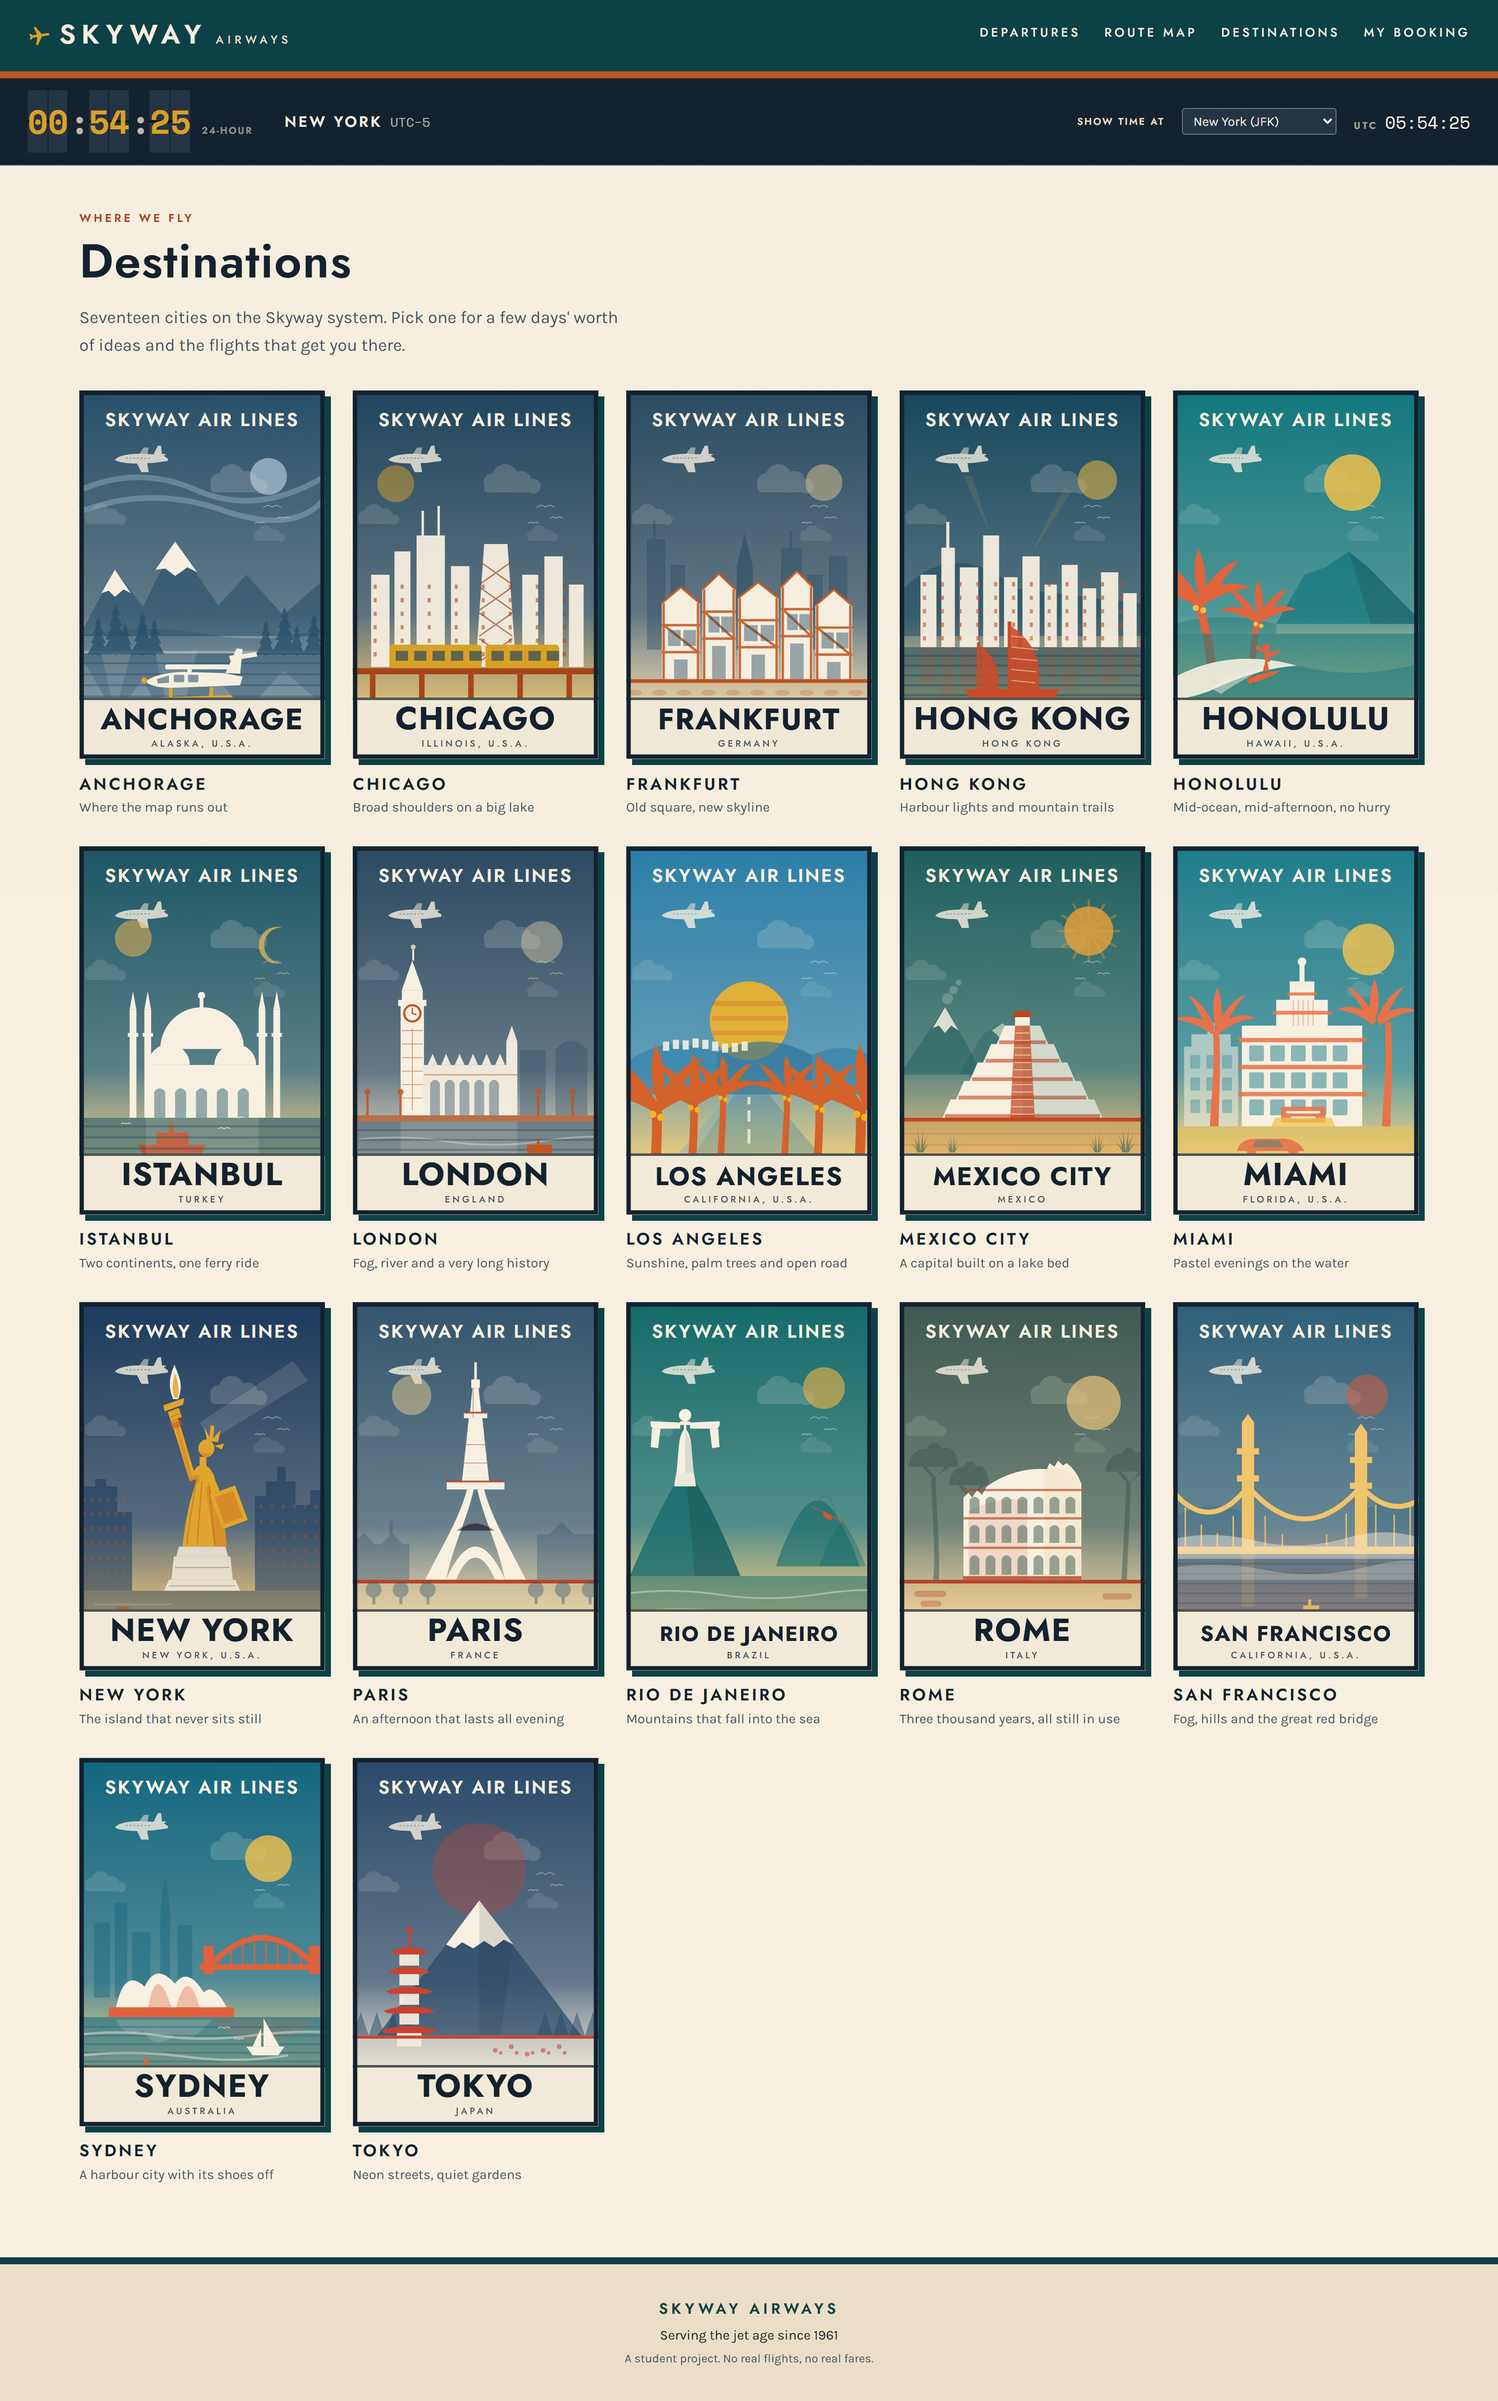
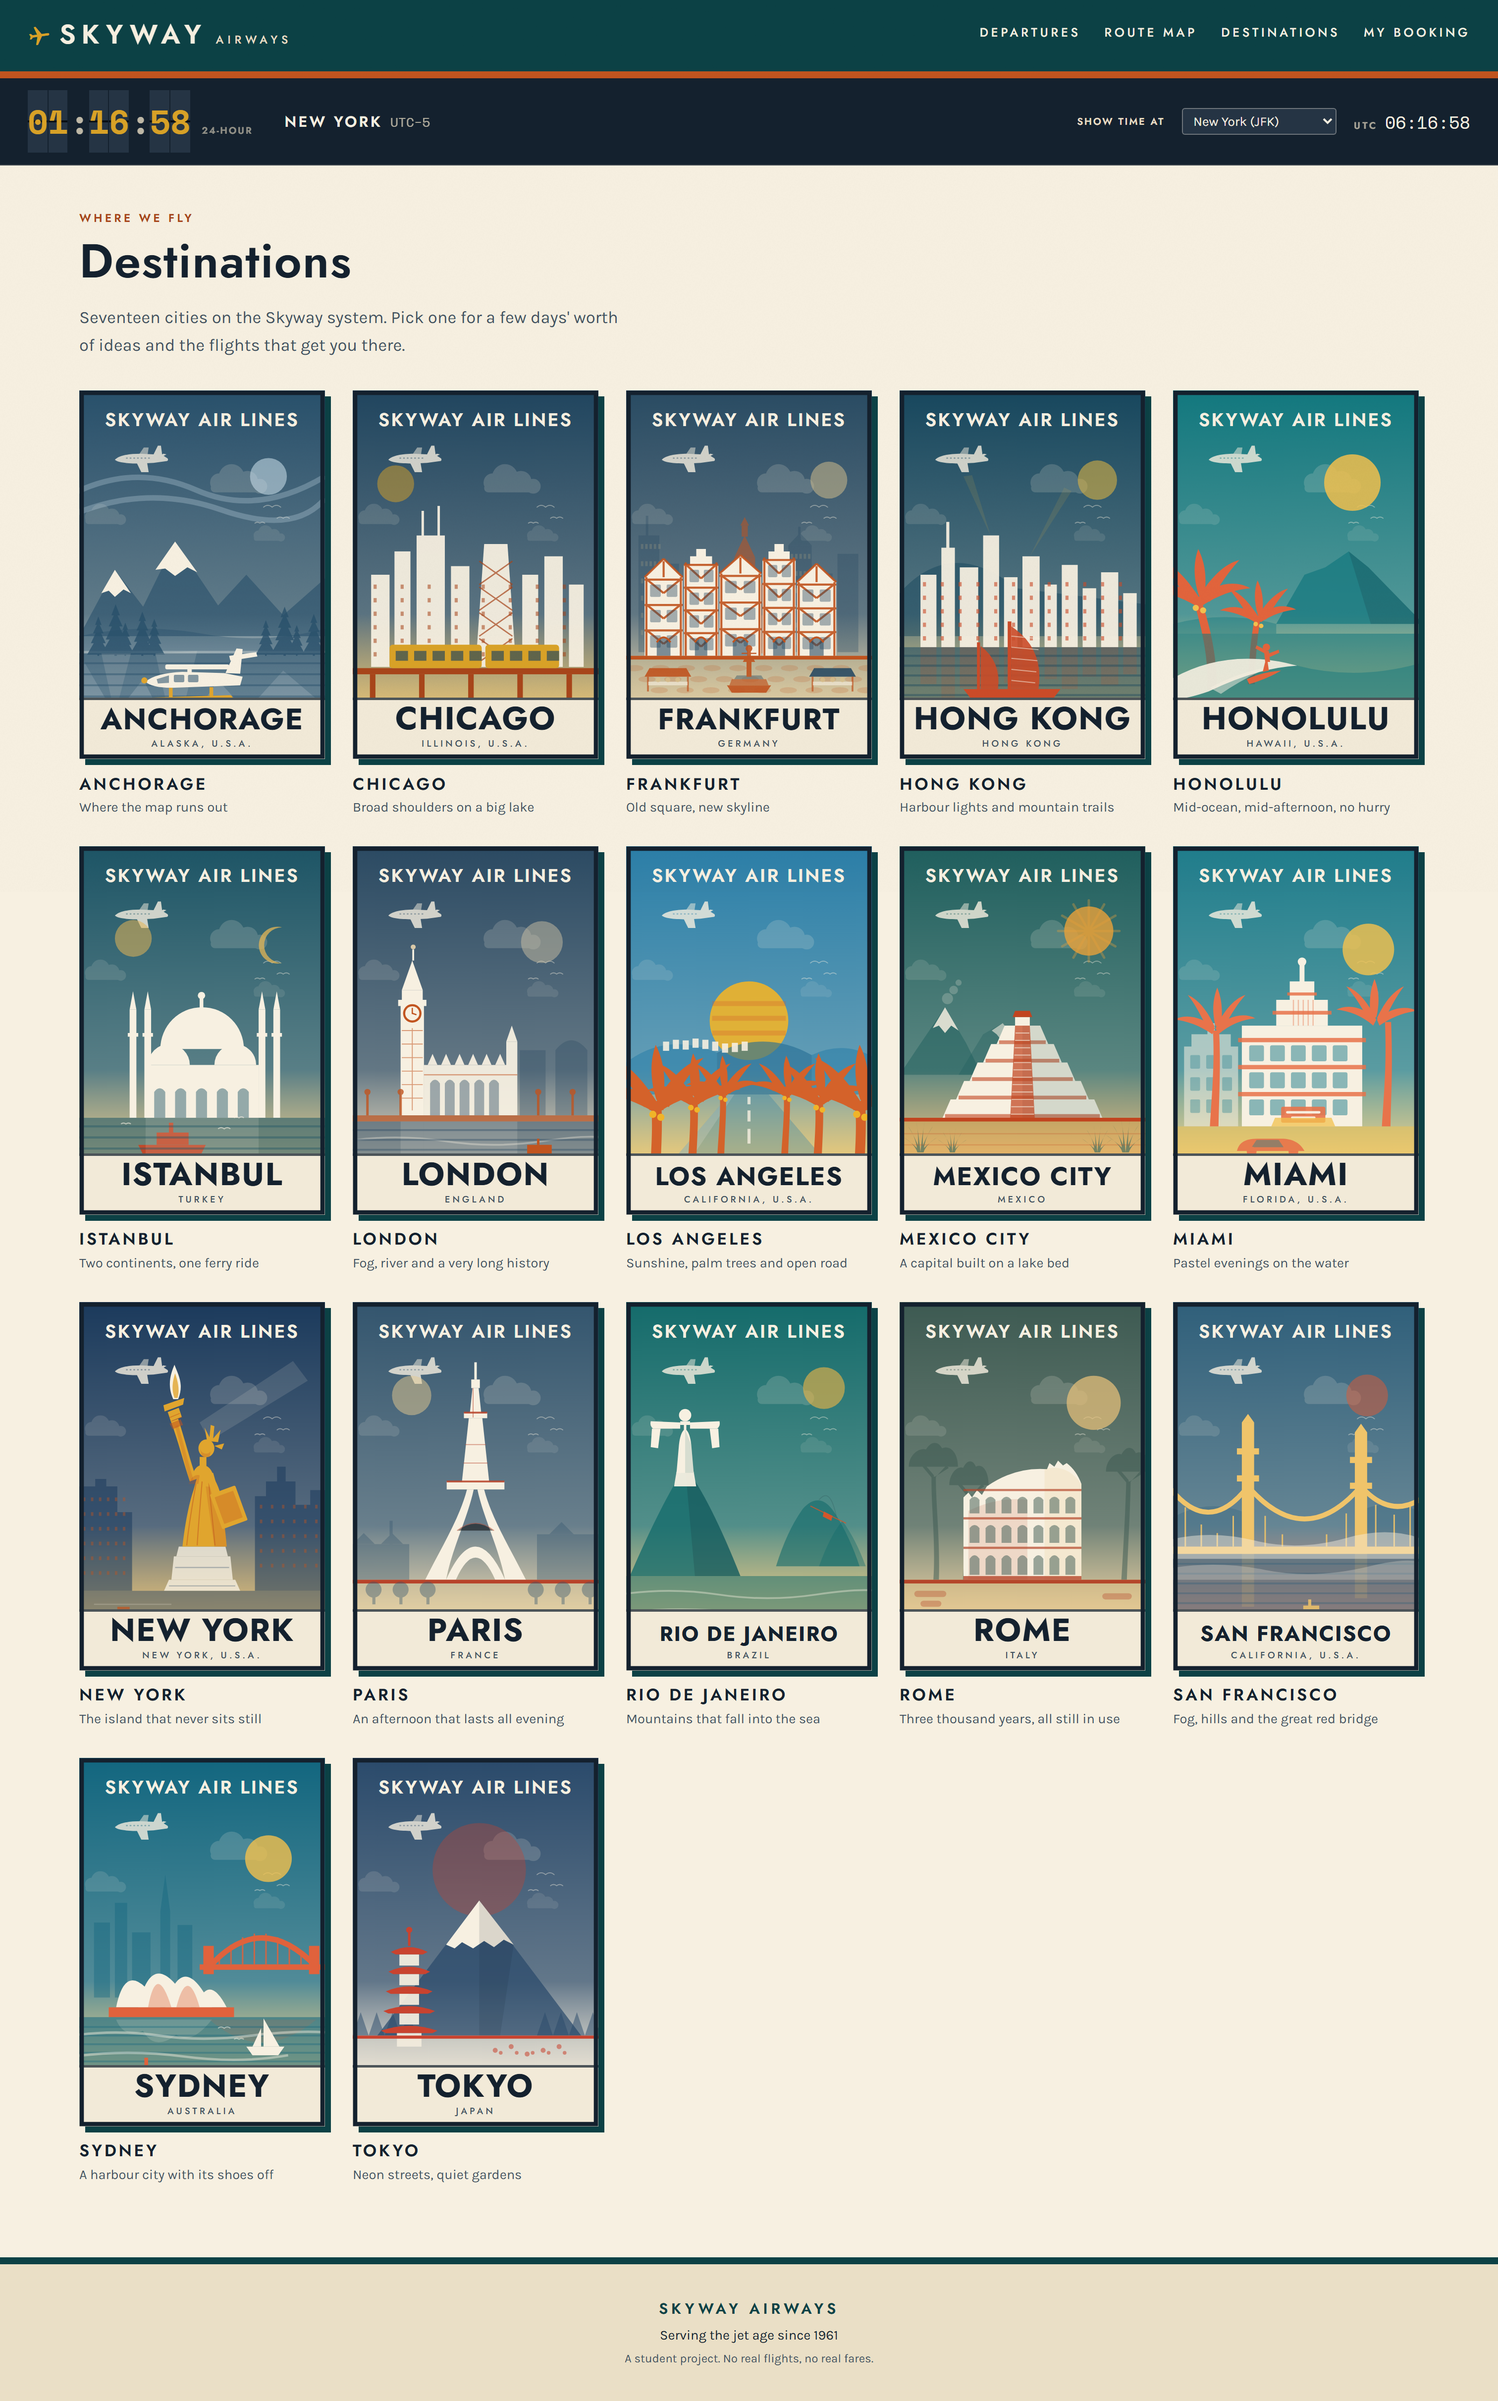
Even aircraft on the map, visible on busy routes, and a rebuilt Frankfurt
Measuring found both problems were real. The aircraft on nearly-full routes
carried a 50 percent thicker outline than the rest, which is what made them
look bigger, and their fill managed only 3.54:1 against the sea where the
green ones manage 4.90:1 - so the busiest routes had the least visible
aircraft. Outline width is now uniform at 0.7 and the busy-route fill is a
lighter tint at 7.98:1. Confirmed the underlying geometry is identical: one
distinct path size across all 36 aircraft. The remaining spread in on-screen
boxes is only the bounding box of a rotated shape.

Frankfurt rebuilt with three planes of depth: banking towers palest at the
back, the red sandstone cathedral and its lantern tower in the middle, and
five timber-framed houses across the front - alternating pointed and stepped
gables, differing storey counts, St Andrew crosses between the rails, and
arched doorways cut into the street level. The square below now sits entirely
above the type band, with cobbles, the Fountain of Justice on its octagonal
basin, and two market stalls with produce on the table.

Verified: 35/35 unit, 9/9 aircraft, 29/29 posters and features, 19/19
filters, 20/20 panel, 53/53 booking QA.

Changed region(s): [[0.4041, 0.2181, 0.5906, 0.3116], [0.0622, 0.0312, 0.0933, 0.0623]]

diff --git a/templates/posters/fra.html b/templates/posters/fra.html
@@ -1,52 +1,129 @@
-{# Frankfurt — timber-framed houses in the old square, towers behind #}
-<circle cx="322" cy="150" r="30" fill="{{ gold }}" opacity="0.5"/>
+{# Frankfurt - the Romerberg: timber-framed gables around the square, the Dom
+   spire behind them, and the banking towers further back again. Three planes
+   of depth, which is what the square actually feels like. #}
+<circle cx="330" cy="146" r="30" fill="{{ gold }}" opacity="0.5"/>
 
-{# modern skyline, kept pale and distant #}
-<g fill="{{ sky }}" opacity="0.4">
-  <rect x="34" y="242" width="30" height="180"/>
-  <rect x="72" y="284" width="24" height="138"/>
-  <rect x="252" y="256" width="34" height="166"/>
-  <rect x="294" y="300" width="26" height="122"/>
-  <rect x="330" y="270" width="30" height="152"/>
-  <rect x="44" y="212" width="4" height="34"/>
-  <rect x="266" y="228" width="4" height="30"/>
+{# furthest back: the modern skyline, kept pale #}
+<g fill="{{ sky }}" opacity="0.32">
+  <rect x="20" y="236" width="34" height="190"/>
+  <rect x="60" y="282" width="26" height="144"/>
+  <rect x="264" y="252" width="38" height="174"/>
+  <rect x="308" y="298" width="28" height="128"/>
+  <rect x="344" y="266" width="34" height="160"/>
+  <rect x="32" y="204" width="4" height="34"/>
+  <rect x="280" y="222" width="4" height="32"/>
+  <path d="M264 252 L283 232 L302 252 Z"/>
 </g>
-{# cathedral spire #}
-<g fill="{{ sky }}" opacity="0.55">
-  <rect x="180" y="286" width="26" height="136"/>
-  <path d="M180 286 L193 232 L206 286 Z"/>
-</g>
-
-{# the row of gabled houses #}
-<g>
-  {% for x, w, h in [(58, 62, 150), (124, 54, 172), (182, 66, 158),
-                     (252, 52, 176), (308, 60, 146)] %}
-    {% set top = 470 - h %}
-    <path d="M{{ x }} 470 L{{ x }} {{ top + 26 }} L{{ x + w / 2 }} {{ top }}
-             L{{ x + w }} {{ top + 26 }} L{{ x + w }} 470 Z" fill="#f7f0e1"/>
-    {# timber framing: posts, rails and a cross brace #}
-    <g stroke="{{ warm }}" stroke-width="4" opacity="0.85">
-      <line x1="{{ x + 3 }}" y1="{{ top + 26 }}" x2="{{ x + 3 }}" y2="470"/>
-      <line x1="{{ x + w - 3 }}" y1="{{ top + 26 }}" x2="{{ x + w - 3 }}" y2="470"/>
-      <line x1="{{ x }}" y1="{{ top + 26 }}" x2="{{ x + w / 2 }}" y2="{{ top }}"/>
-      <line x1="{{ x + w / 2 }}" y1="{{ top }}" x2="{{ x + w }}" y2="{{ top + 26 }}"/>
-      <line x1="{{ x }}" y1="{{ top + 62 }}" x2="{{ x + w }}" y2="{{ top + 62 }}"/>
-      <line x1="{{ x }}" y1="{{ top + 106 }}" x2="{{ x + w }}" y2="{{ top + 106 }}"/>
-      <line x1="{{ x + 3 }}" y1="{{ top + 62 }}" x2="{{ x + w - 3 }}" y2="{{ top + 106 }}"/>
-    </g>
-    <g fill="{{ sky }}" opacity="0.45">
-      <rect x="{{ x + 10 }}" y="{{ top + 70 }}" width="{{ w / 3 }}" height="26"/>
-      <rect x="{{ x + w / 2 + 4 }}" y="{{ top + 70 }}" width="{{ w / 3 }}" height="26"/>
-      <rect x="{{ x + w / 2 - 11 }}" y="{{ top + 118 }}" width="22" height="{{ 470 - top - 118 }}"/>
-    </g>
-  {% endfor %}
-</g>
-
-<rect x="0" y="470" width="400" height="130" fill="{{ gold }}" opacity="0.35"/>
-<rect x="0" y="470" width="400" height="6" fill="{{ warm }}"/>
-{# cobbles #}
-<g fill="{{ warm }}" opacity="0.22">
+<g fill="{{ gold }}" opacity="0.18">
   {% for i in range(30) %}
-    <ellipse cx="{{ 14 + (i % 10) * 40 + (i // 10) * 14 }}" cy="{{ 492 + (i // 10) * 22 }}" rx="12" ry="5"/>
+    <rect x="{{ 24 + (i % 5) * 7 }}" y="{{ 250 + (i // 5) * 28 }}" width="4" height="8"/>
+  {% endfor %}
+  {% for i in range(30) %}
+    <rect x="{{ 268 + (i % 5) * 7 }}" y="{{ 266 + (i // 5) * 28 }}" width="4" height="8"/>
   {% endfor %}
 </g>
+
+{# middle distance: the cathedral, red sandstone, with its lantern tower #}
+<g fill="{{ warm }}" opacity="0.55">
+  <rect x="176" y="272" width="34" height="156"/>
+  <path d="M176 272 L193 236 L210 272 Z"/>
+  <rect x="188" y="220" width="10" height="18"/>
+  <path d="M186 220 L193 206 L200 220 Z"/>
+  <rect x="212" y="326" width="30" height="102"/>
+  <path d="M212 326 L227 306 L242 326 Z"/>
+</g>
+<g fill="{{ sky }}" opacity="0.3">
+  <path d="M184 330 L184 306 Q193 296 202 306 L202 330 Z"/>
+  <path d="M220 366 L220 348 Q227 340 234 348 L234 366 Z"/>
+</g>
+
+{# the square itself: five houses, each with its own gable and storey count #}
+{% set houses = [(30, 62, 158, 3), (94, 56, 182, 4), (152, 68, 164, 3),
+                 (222, 54, 190, 4), (278, 64, 150, 3)] %}
+{% for x, w, h, floors in houses %}
+  {% set top = 432 - h %}
+  {# gable: alternating stepped and pointed, so the row is not a repeat #}
+  {% if loop.index0 % 2 == 0 %}
+    <path d="M{{ x }} 432 L{{ x }} {{ top + 30 }} L{{ x + w / 2 }} {{ top }}
+             L{{ x + w }} {{ top + 30 }} L{{ x + w }} 432 Z" fill="#f7f0e1"/>
+  {% else %}
+    <path d="M{{ x }} 432 L{{ x }} {{ top + 34 }}
+             L{{ x + w * 0.18 }} {{ top + 34 }} L{{ x + w * 0.18 }} {{ top + 20 }}
+             L{{ x + w * 0.36 }} {{ top + 20 }} L{{ x + w * 0.36 }} {{ top + 8 }}
+             L{{ x + w * 0.64 }} {{ top + 8 }} L{{ x + w * 0.64 }} {{ top + 20 }}
+             L{{ x + w * 0.82 }} {{ top + 20 }} L{{ x + w * 0.82 }} {{ top + 34 }}
+             L{{ x + w }} {{ top + 34 }} L{{ x + w }} 432 Z" fill="#f7f0e1"/>
+  {% endif %}
+
+  {# timber frame: posts, rails, and the St Andrew's crosses between them #}
+  <g stroke="{{ warm }}" stroke-width="3.4" opacity="0.9" fill="none">
+    <line x1="{{ x + 3 }}" y1="{{ top + 30 }}" x2="{{ x + 3 }}" y2="432"/>
+    <line x1="{{ x + w - 3 }}" y1="{{ top + 30 }}" x2="{{ x + w - 3 }}" y2="432"/>
+    {% if loop.index0 % 2 == 0 %}
+      <line x1="{{ x }}" y1="{{ top + 30 }}" x2="{{ x + w / 2 }}" y2="{{ top }}"/>
+      <line x1="{{ x + w / 2 }}" y1="{{ top }}" x2="{{ x + w }}" y2="{{ top + 30 }}"/>
+      <line x1="{{ x + w / 2 }}" y1="{{ top + 4 }}" x2="{{ x + w / 2 }}" y2="{{ top + 30 }}"/>
+    {% endif %}
+    {% for f in range(floors) %}
+      {% set fy = top + 34 + f * ((432 - top - 34) / floors) %}
+      <line x1="{{ x }}" y1="{{ fy }}" x2="{{ x + w }}" y2="{{ fy }}"/>
+      <line x1="{{ x + 4 }}" y1="{{ fy }}" x2="{{ x + w / 2 }}" y2="{{ fy + 22 }}"/>
+      <line x1="{{ x + w - 4 }}" y1="{{ fy }}" x2="{{ x + w / 2 }}" y2="{{ fy + 22 }}"/>
+    {% endfor %}
+  </g>
+
+  {# windows, and a shopfront under the arcade at street level #}
+  <g fill="{{ sky }}" opacity="0.4">
+    {% for f in range(floors) %}
+      {% set fy = top + 42 + f * ((432 - top - 34) / floors) %}
+      <rect x="{{ x + 9 }}" y="{{ fy }}" width="{{ w * 0.28 }}" height="20" rx="2"/>
+      <rect x="{{ x + w * 0.58 }}" y="{{ fy }}" width="{{ w * 0.28 }}" height="20" rx="2"/>
+    {% endfor %}
+  </g>
+  {# arched doorway at street level, cut dark into the facade #}
+  <path d="M{{ x + w * 0.32 }} 432 L{{ x + w * 0.32 }} 410
+           Q{{ x + w * 0.5 }} 394 {{ x + w * 0.68 }} 410 L{{ x + w * 0.68 }} 432 Z"
+        fill="{{ sky }}" opacity="0.6"/>
+  <path d="M{{ x + w * 0.32 }} 410 Q{{ x + w * 0.5 }} 394 {{ x + w * 0.68 }} 410"
+        fill="none" stroke="{{ warm }}" stroke-width="3"/>
+{% endfor %}
+
+{# The square, all of it above the type band: cobbles, the Fountain of
+   Justice on its step, and two market stalls under striped awnings. #}
+<rect x="0" y="432" width="400" height="168" fill="{{ gold }}" opacity="0.34"/>
+<rect x="0" y="432" width="400" height="6" fill="{{ warm }}"/>
+<g fill="{{ warm }}" opacity="0.18">
+  {% for i in range(30) %}
+    <ellipse cx="{{ 14 + (i % 10) * 42 + (i // 10) * 20 }}" cy="{{ 452 + (i // 10) * 18 }}"
+             rx="14" ry="5"/>
+  {% endfor %}
+</g>
+{# Fountain of Justice: octagonal basin, stepped plinth, slender column, and
+   the figure on top holding her scales. #}
+<g opacity="0.9">
+  <path d="M172 492 L228 492 L236 480 L164 480 Z" fill="{{ warm }}"/>
+  <path d="M168 480 L232 480 L228 470 L172 470 Z" fill="{{ warm }}" opacity="0.75"/>
+  <path d="M176 470 L224 470 L220 464 L180 464 Z" fill="{{ sky }}" opacity="0.45"/>
+  <rect x="196" y="440" width="8" height="26" fill="{{ warm }}"/>
+  <path d="M190 442 L210 442 L206 434 L194 434 Z" fill="{{ warm }}"/>
+  <rect x="197" y="424" width="6" height="12" fill="{{ warm }}"/>
+  <circle cx="200" cy="420" r="5.5" fill="{{ warm }}"/>
+  <line x1="188" y1="428" x2="212" y2="428" stroke="{{ warm }}" stroke-width="2"/>
+</g>
+
+{# market stalls: a striped canopy on poles, with a table under it #}
+{% for x, colour in [(30, warm), (298, sky)] %}
+  <g opacity="0.9">
+    <path d="M{{ x }} 466 L{{ x + 76 }} 466 L{{ x + 68 }} 452 L{{ x + 8 }} 452 Z"
+          fill="{{ colour }}"/>
+    <rect x="{{ x + 4 }}" y="466" width="3" height="24" fill="{{ warm }}" opacity="0.8"/>
+    <rect x="{{ x + 69 }}" y="466" width="3" height="24" fill="{{ warm }}" opacity="0.8"/>
+    <rect x="{{ x + 6 }}" y="474" width="64" height="6" fill="#f7f0e1" opacity="0.7"/>
+    <g fill="{{ gold }}" opacity="0.8">
+      <circle cx="{{ x + 22 }}" cy="471" r="4"/>
+      <circle cx="{{ x + 38 }}" cy="471" r="4"/>
+      <circle cx="{{ x + 54 }}" cy="471" r="4"/>
+    </g>
+  </g>
+{% endfor %}
+

diff --git a/static/css/retro.css b/static/css/retro.css
@@ -785,10 +785,12 @@ a:hover { color: var(--orange-dk); }
    from the middle of the map instead of growing it where it stands. */
 .arc__plane { pointer-events: none; }
 
+/* One stroke width for every state: a heavier outline on some routes made
+   those aircraft look bigger than the rest. */
 .arc__plane path {
   fill: #4f9a86;
   stroke: var(--board);
-  stroke-width: 0.6;
+  stroke-width: 0.7;
   stroke-linejoin: round;
   transform-box: fill-box;
   transform-origin: center;
@@ -796,7 +798,11 @@ a:hover { color: var(--orange-dk); }
 }
 
 .arc--filling .arc__plane path { fill: var(--gold); }
-.arc--full .arc__plane path { fill: var(--orange); stroke-width: 0.9; }
+
+/* Not --orange: at 3.5:1 against the sea the aircraft on the busiest routes
+   were the hardest to see. This tint clears 5:1 while still reading as the
+   warm end of the scale. */
+.arc--full .arc__plane path { fill: #f4a273; }
 
 .routemap__svg.is-focused .arc.is-dimmed .arc__plane { opacity: 0.18; }
 
